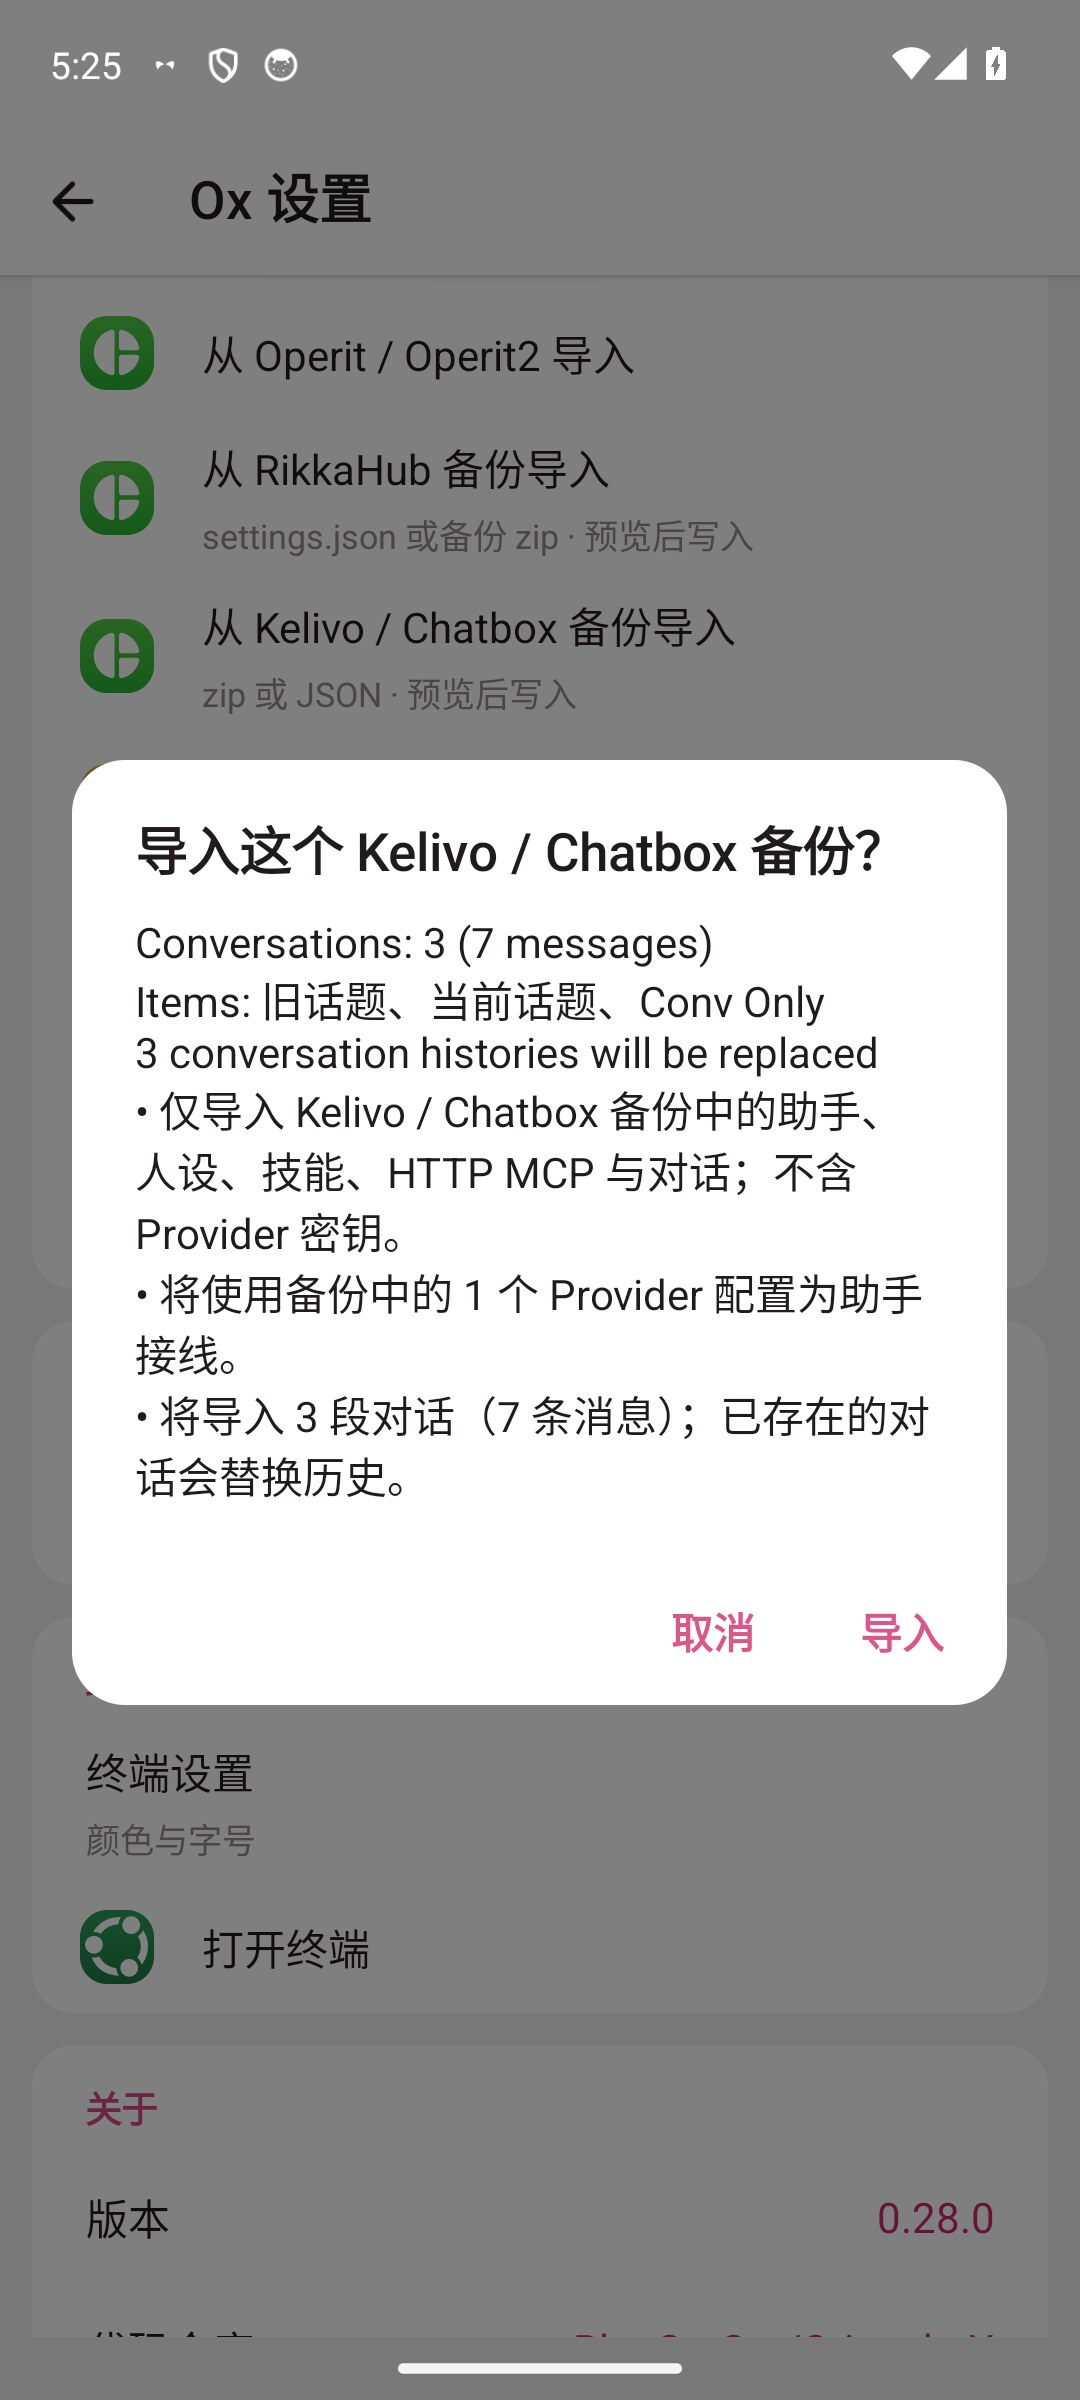
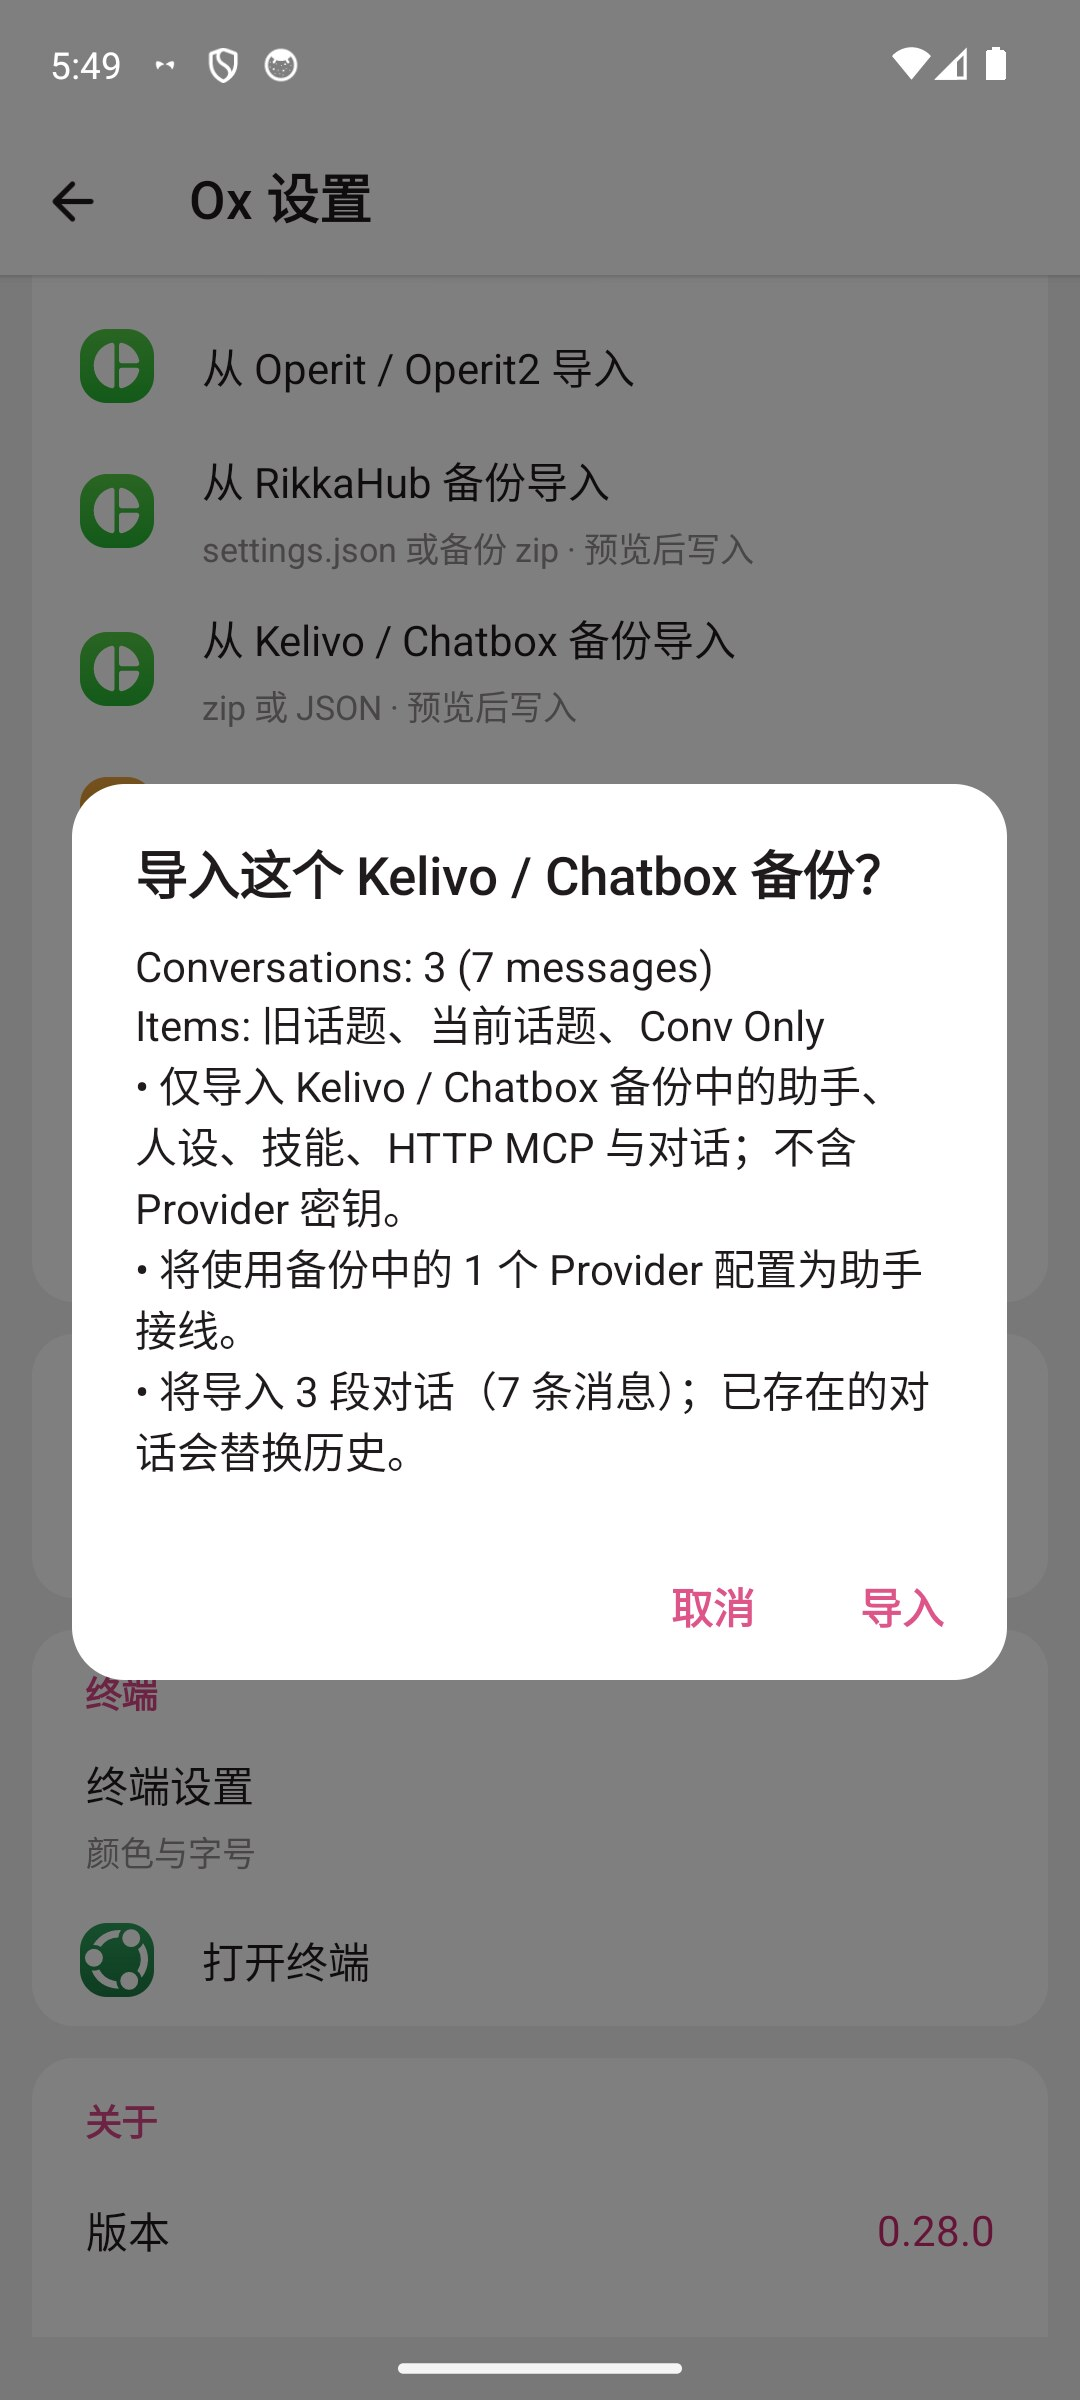
docs: refresh 0.28.0 conversation QA from the final build
Re-ran the zip import on the shipped 7cff4b8b release and refreshed the
preview/result/chat screenshots so the evidence matches the artifact.

Generated-by: ZCode (DeepSeek Harness, opendesign/deepseek-v4.1-flash)
AI-Disclosure: This commit was produced by the AI coding agent blancatora.

diff --git a/docs/qa-0.28.0.md b/docs/qa-0.28.0.md
@@ -62,8 +62,11 @@
 - 截图：`docs/screenshots/qa-0.28.0-kelivo-conv-preview.jpg`、
   `qa-0.28.0-kelivo-conv-result.jpg`、`qa-0.28.0-kelivo-conv-chat.jpg`、
   `qa-0.28.0-json-preview.jpg`、`qa-0.28.0-json-chat.jpg`。
+- 最终构建复核：用 sha256 `7cff4b8b…` 的 release 重跑 zip 首次导入，
+  预览 `3 段/7 条`、结果 `Imported 3 conversations (7 messages)`、原生
+  “当前话题”三条气泡均与上表一致，对话截图取自该最终构建。
 - 清理：删除 4 个测试 Agent 目录与 Downloads 样例；重启后
-  dialogs/messages_v2 中 555000053–555000056 均为 0 行；无本包 FATAL/ANR
+  dialogs/messages_v2 中 555000053–555000059 均为 0 行；无本包 FATAL/ANR
   （crash buffer 只有 `sh.orioneko.messenger` 的旧 VPN 记录，与本包无关）。
 
 ## 3. 未覆盖 / 已知边界
